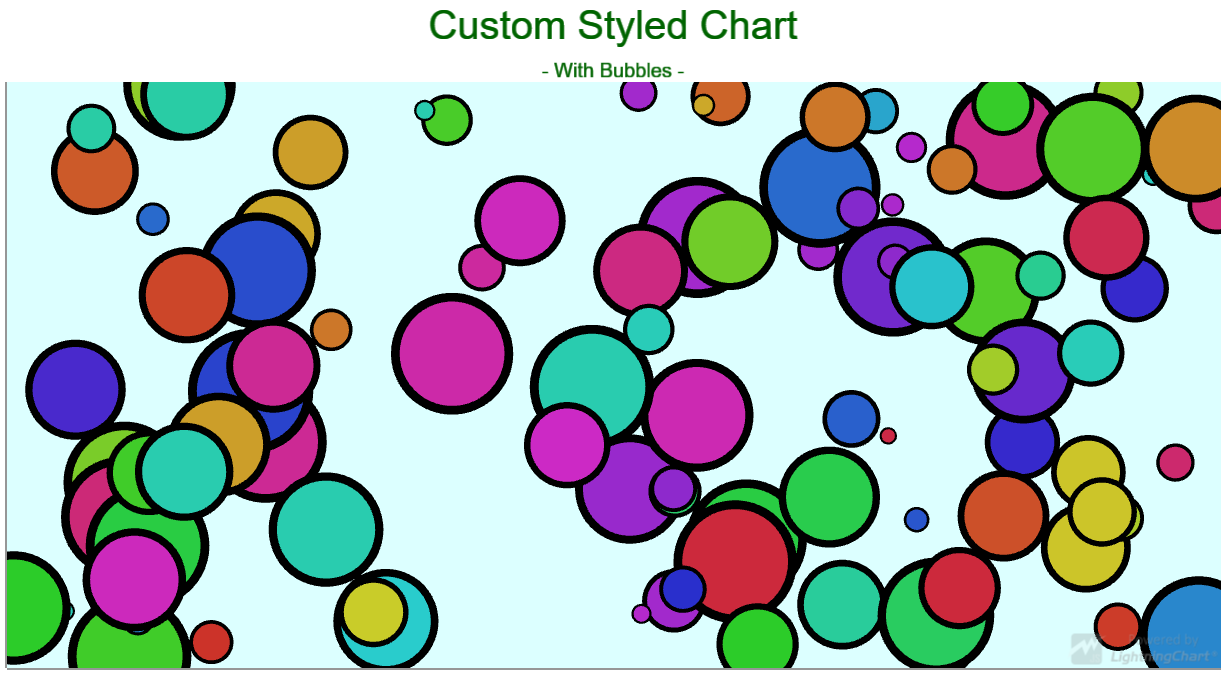
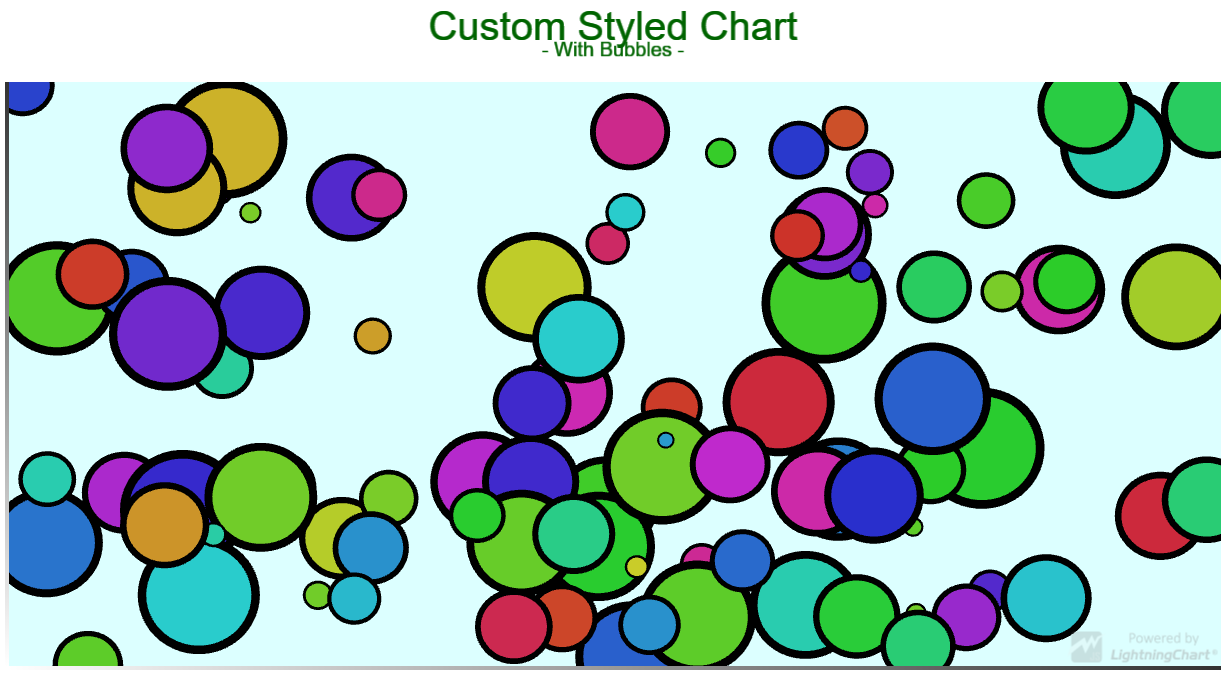
Update LCJS version

diff --git a/src/index.js b/src/index.js
@@ -19,6 +19,7 @@ const {
     UIOrigins,
     ColorPalettes,
     AxisTickStrategies,
+    emptyLine,
     Themes
 } = lcjs
 
@@ -51,7 +52,7 @@ const solidFillStyles = forEachIn(colors, (color) => new SolidFill({ color }))
 // Create chart with customized settings
 const chart = lightningChart()
     .ChartXY({
-        // theme: Themes.dark        
+        // theme: Themes.darkGold        
     })
     .setBackgroundFillStyle(solidFillStyles.background)
     .setSeriesBackgroundFillStyle(solidFillStyles.graphBackground)
@@ -75,12 +76,16 @@ const axes = {
 }
 
 chart.addUIElement(undefined, chart.uiScale)
-    .setPosition({ x: 50, y: 90 })
+    .setPosition({ x: 50, y: 93 })
     .setOrigin(UIOrigins.Center)
     .setText('- With Bubbles -')
     .setTextFont(fonts.subTitle)
     .setTextFillStyle(solidFillStyles.subTitle)
     .setDraggingMode(UIDraggingModes.notDraggable)
+    .setBackground((bg) => bg
+        .setFillStyle(emptyFill)
+        .setStrokeStyle(emptyLine)
+    )
 
 // Axis mutator.
 const overrideAxis = (axis) => axis

diff --git a/webpack.config.js b/webpack.config.js
@@ -69,7 +69,8 @@ module.exports = {
         }),
         new CopyWebpackPlugin({
             patterns: [
-                { from: './assets/**/*', to: './examples/assets', flatten: true, noErrorOnMissing: true }
+                { from: './assets/**/*', to: './examples/assets', flatten: true, noErrorOnMissing: true },
+                { from: './node_modules/@arction/lcjs/dist/resources', to: 'resources', noErrorOnMissing: true },
             ]
         })
     ]

diff --git a/README.md b/README.md
@@ -66,15 +66,15 @@ Direct developer email support can be purchased through a [Support Plan][4] or b
 © Arction Ltd 2009-2020. All rights reserved.
 
 
-[Cartesian chart]: https://www.arction.com/lightningchart-js-api-documentation/v3.0.1/classes/chartxy.html
-[Axis]: https://www.arction.com/lightningchart-js-api-documentation/v3.0.1/classes/axis.html
-[Ellipse series]: https://www.arction.com/lightningchart-js-api-documentation/v3.0.1/classes/ellipseseries.html
-[Font settings]: https://www.arction.com/lightningchart-js-api-documentation/v3.0.1/classes/fontsettings.html
-[RGBA color factory]: https://www.arction.com/lightningchart-js-api-documentation/v3.0.1/globals.html#colorrgba
-[Solid FillStyle]: https://www.arction.com/lightningchart-js-api-documentation/v3.0.1/classes/solidfill.html
-[Solid LineStyle]: https://www.arction.com/lightningchart-js-api-documentation/v3.0.1/classes/solidline.html
-[Empty FillStyle]: https://www.arction.com/lightningchart-js-api-documentation/v3.0.1/globals.html#emptyfill
-[UI position origins]: https://www.arction.com/lightningchart-js-api-documentation/v3.0.1/globals.html#uiorigins
-[UI Dragging modes]: https://www.arction.com/lightningchart-js-api-documentation/v3.0.1/enums/uidraggingmodes.html
-[Animator]: https://www.arction.com/lightningchart-js-api-documentation/v3.0.1/globals.html#animator
+[Cartesian chart]: https://www.arction.com/lightningchart-js-api-documentation/v3.1.0/classes/chartxy.html
+[Axis]: https://www.arction.com/lightningchart-js-api-documentation/v3.1.0/classes/axis.html
+[Ellipse series]: https://www.arction.com/lightningchart-js-api-documentation/v3.1.0/classes/ellipseseries.html
+[Font settings]: https://www.arction.com/lightningchart-js-api-documentation/v3.1.0/classes/fontsettings.html
+[RGBA color factory]: https://www.arction.com/lightningchart-js-api-documentation/v3.1.0/globals.html#colorrgba
+[Solid FillStyle]: https://www.arction.com/lightningchart-js-api-documentation/v3.1.0/classes/solidfill.html
+[Solid LineStyle]: https://www.arction.com/lightningchart-js-api-documentation/v3.1.0/classes/solidline.html
+[Empty FillStyle]: https://www.arction.com/lightningchart-js-api-documentation/v3.1.0/globals.html#emptyfill
+[UI position origins]: https://www.arction.com/lightningchart-js-api-documentation/v3.1.0/globals.html#uiorigins
+[UI Dragging modes]: https://www.arction.com/lightningchart-js-api-documentation/v3.1.0/enums/uidraggingmodes.html
+[Animator]: https://www.arction.com/lightningchart-js-api-documentation/v3.1.0/globals.html#animator
 
